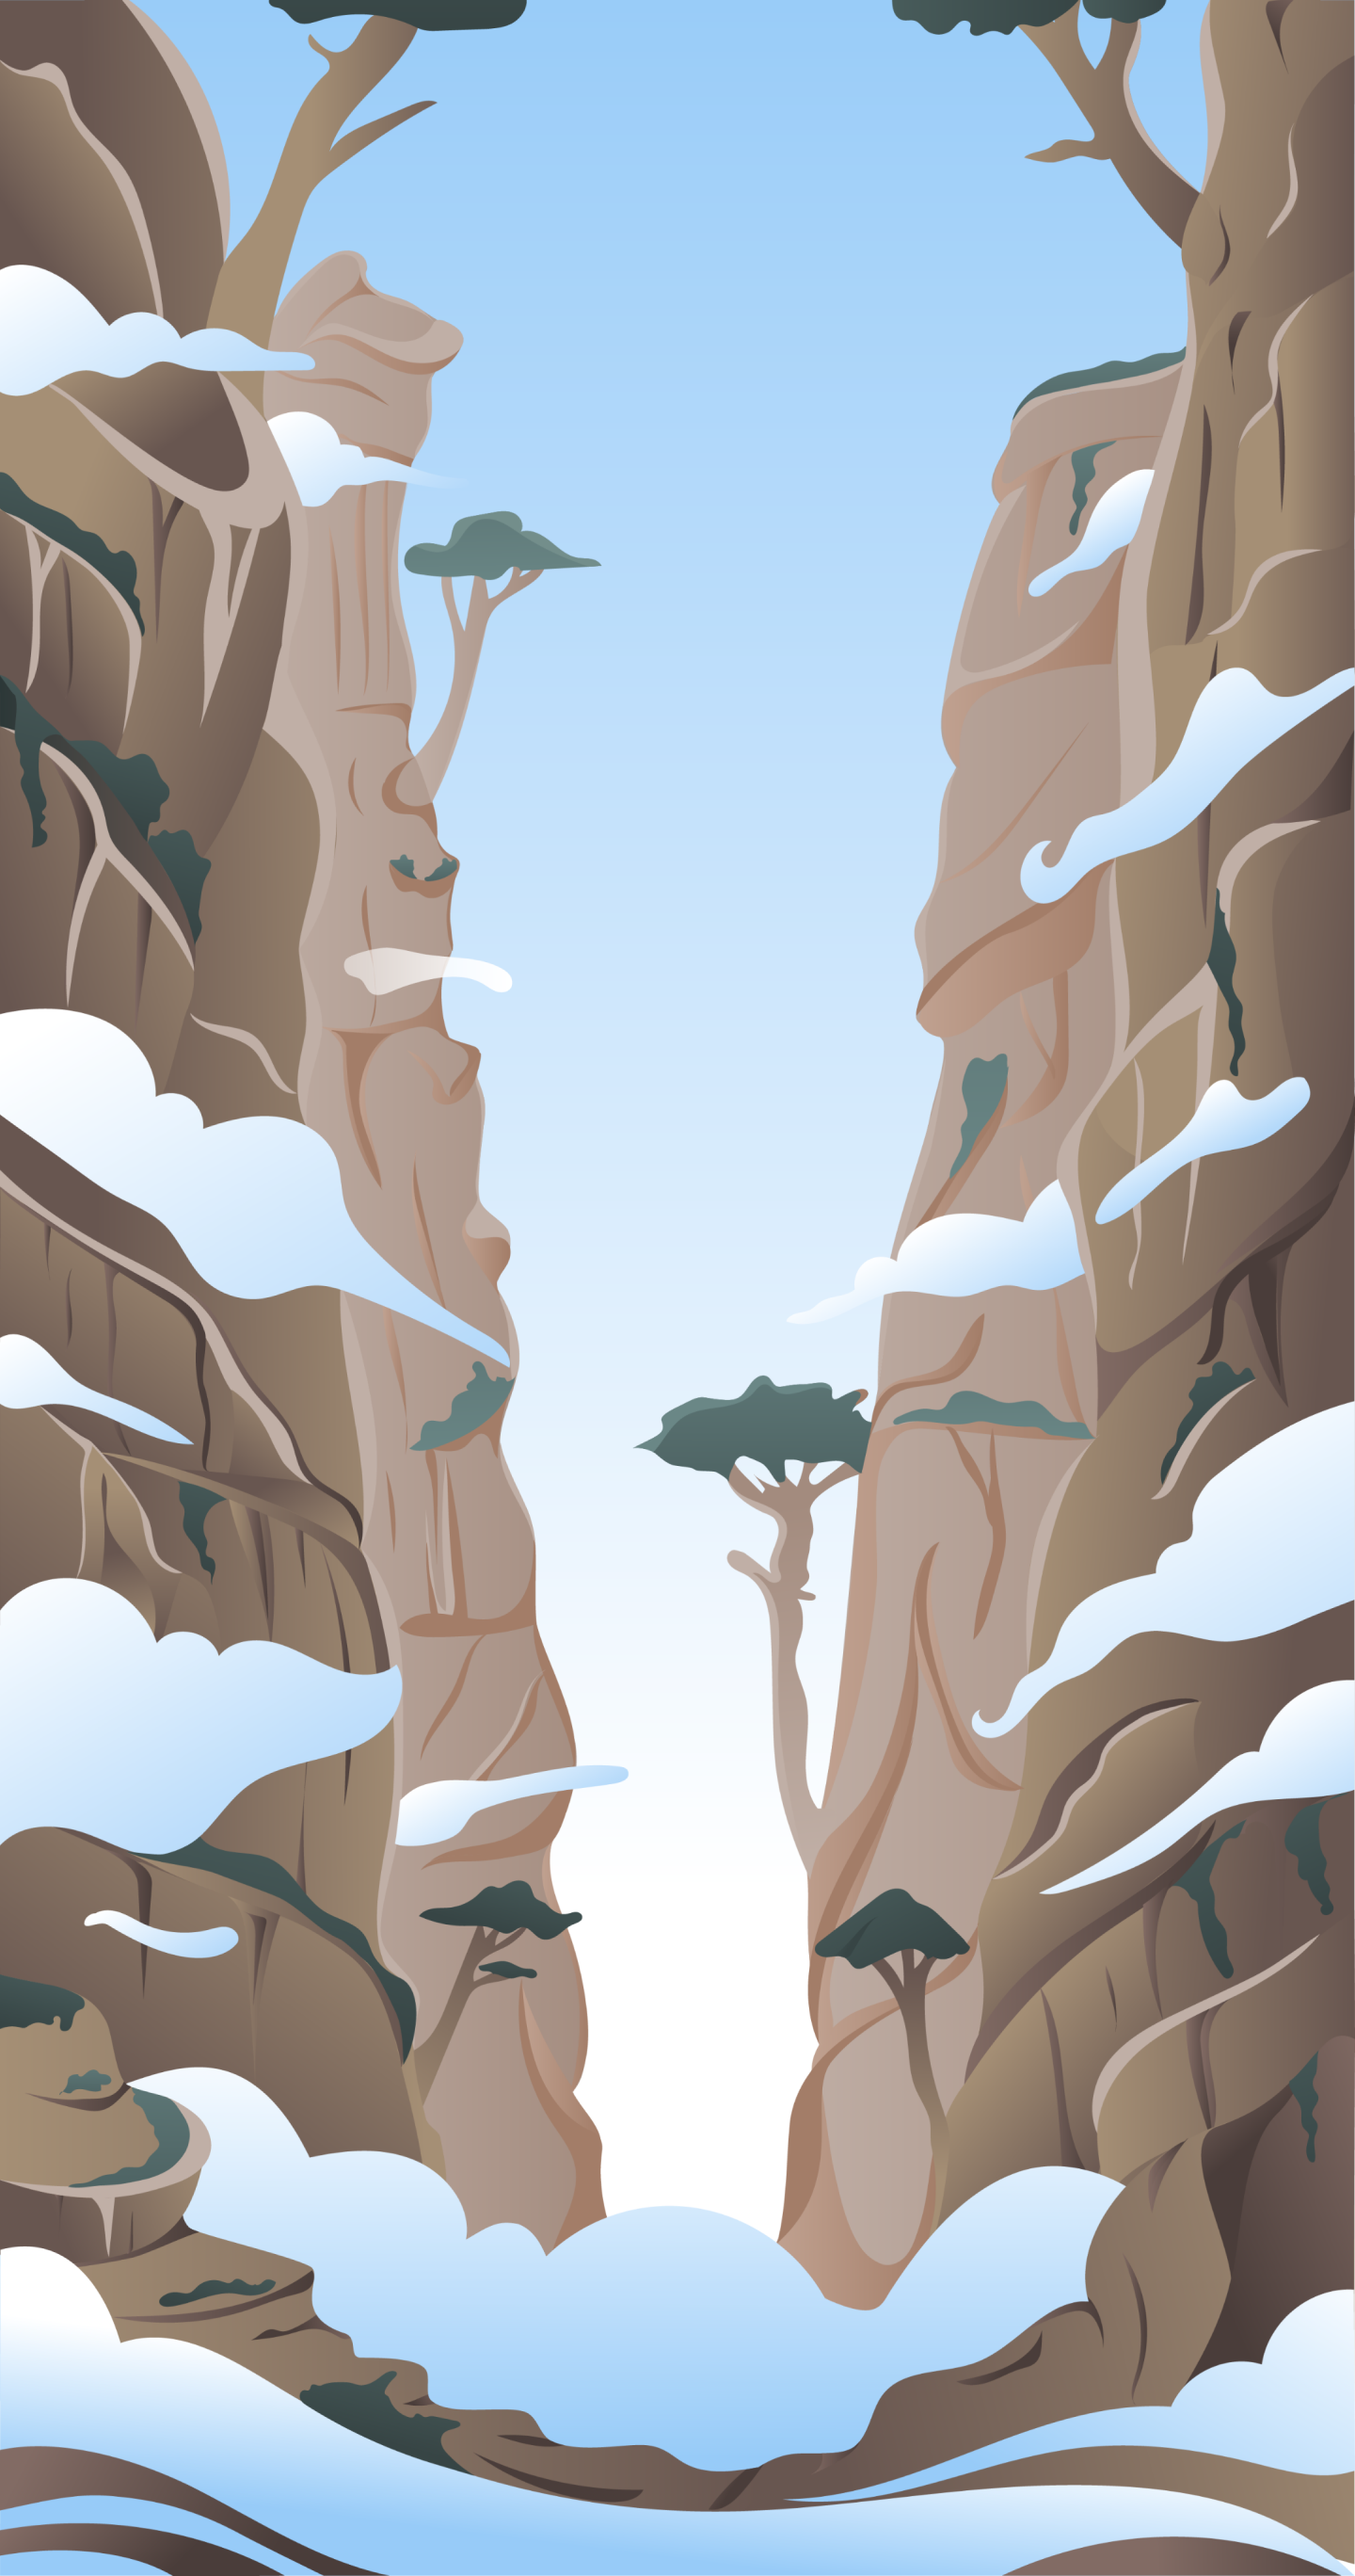
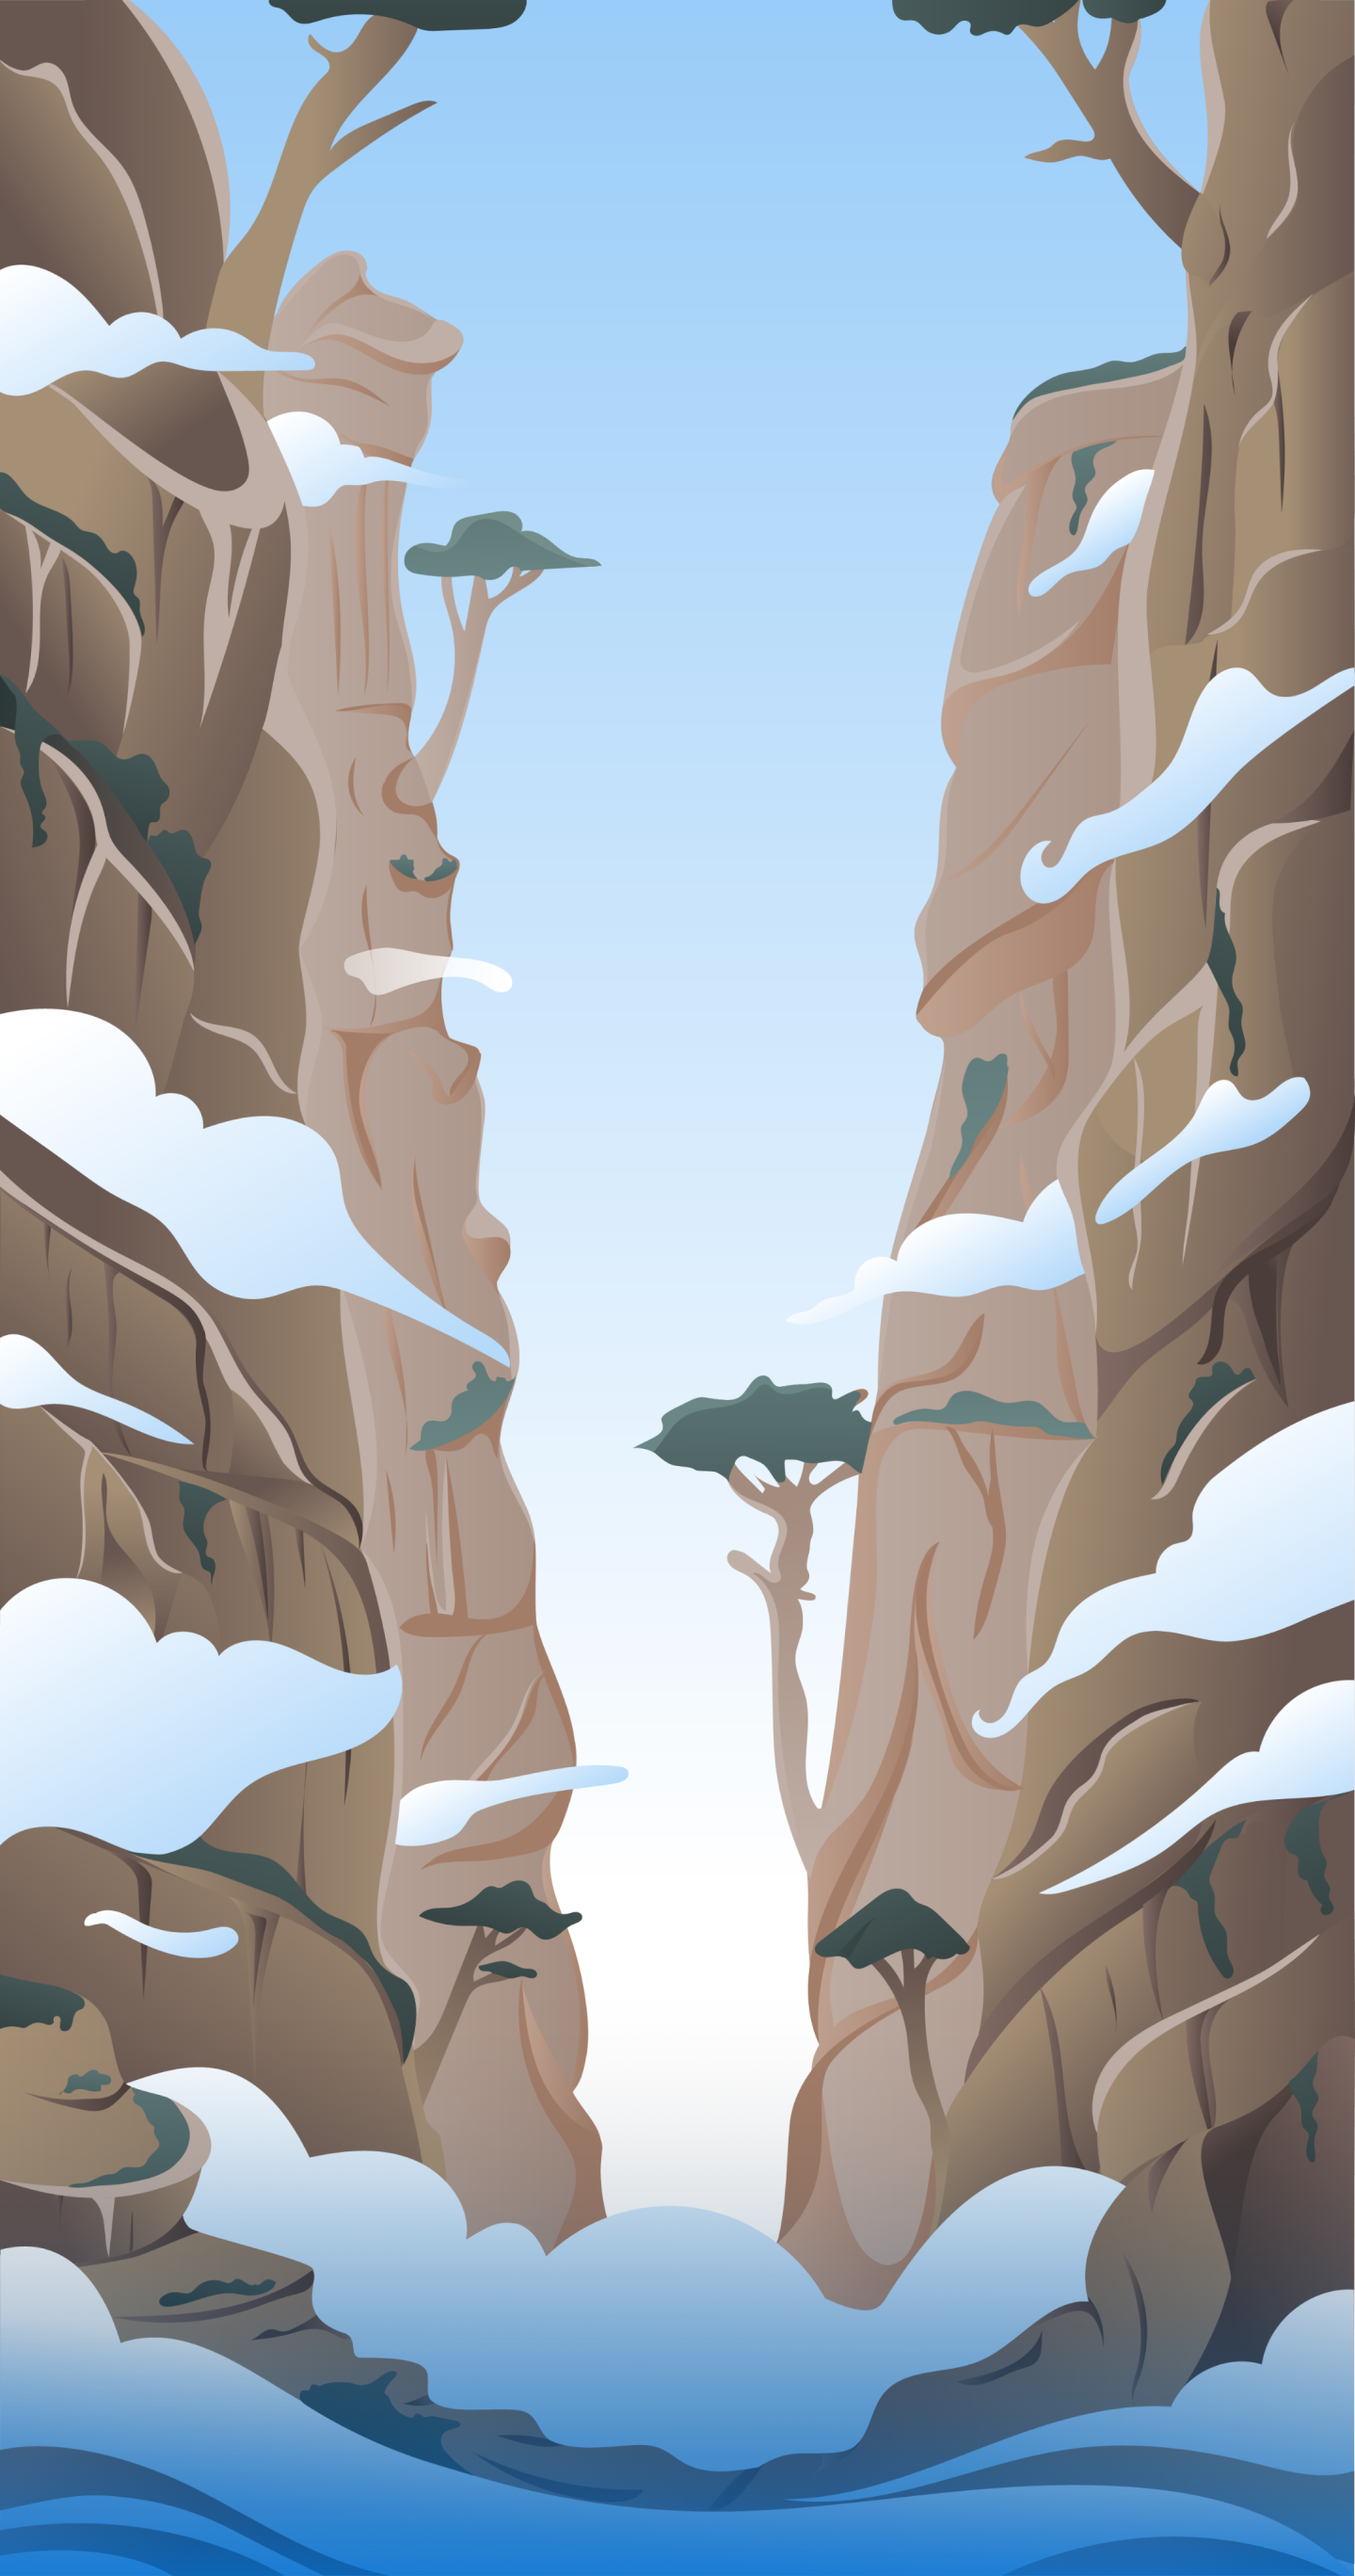
done responsive

Changed region(s): [[0.0, 0.8388, 1.0, 1.0]]

diff --git a/index.html b/index.html
@@ -653,7 +653,7 @@
           </div>
         </div>
       </div>
-      <div class="container d-flex flex-column align-items-center">
+      <div class="container faq-container d-flex flex-column align-items-center">
         <h2 class="text-center">FAQ’s</h2>
         <div class="accordion accordion-flush" id="accordionFlushExample">
           <div class="accordion-item mb-4">
@@ -698,8 +698,8 @@
           </div>
         </div>
       </div>
-      <div class="ornamen-about">
-        <div class="overlay-bot position-absolute bottom-auto"></div>
+      <!-- <div class="overlay-bot position-absolute bottom-auto"></div> -->
+      <!-- <div class="ornamen-about"> -->
       </div>
     </section>
     <section class="footer">
@@ -707,7 +707,7 @@
         <div class="container">
           <div class="row mb-5">
             <div class="col-lg-5"></div>
-            <div class="col-lg-7 d-flex flex-column align-items-center ">
+            <div class="col-lg-7 d-flex flex-column align-items-center align-items-lg-start">
               <div class="footer-logo text-center">
                 <img src="assets/images/img-logo.png" alt="" class="logo-brand">
               </div>
@@ -716,7 +716,7 @@
           </div>
           <div class="row">
             <div class="col-lg-5"></div>
-            <div class="col-lg-2 col-5 offset-1 d-flex flex-column">
+            <div class="col-lg-2 col-5 offset-1 offset-lg-0 d-flex flex-column">
               <h6 class="mb-3">Product</h6>
               <a href="#" class="footer-link mb-2">Home</a>
               <a href="#" class="footer-link mb-2">About</a>
@@ -729,7 +729,7 @@
               <a href="#" class="footer-link mb-2">Tokenomics</a>
               <a href="#" class="footer-link mb-2">Token Use Case</a>
             </div>
-            <div class="col-lg-3 col-5 offset-1 d-flex flex-column mt-4">
+            <div class="col-lg-3 col-5 offset-1 offset-lg-0 d-flex flex-column mt-4 mt-lg-0">
               <h6 class="mb-3">Resources</h6>
               <a href="#" class="footer-link mb-2">Try App</a>
               <a href="#" class="footer-link mb-2">White Paper</a>
@@ -737,7 +737,7 @@
           </div>
           <div class="row mt-5">
             <div class="col-lg-5"></div>
-            <div class="col-lg-7 col-5 offset-1 d-flex">
+            <div class="col-lg-7 col-5 offset-1 offset-lg-0 d-flex">
               <div class="icon-wrap">
                 <img src="assets/images/icon-1.png" alt="">
               </div>

diff --git a/assets/css/style.css b/assets/css/style.css
@@ -320,12 +320,6 @@ section.about-us{
     background-size: cover;
     padding: 51px 0px 182px;
 }
-section.about-us .row{
-    overflow-x: auto;
-    /* white-space: nowrap; */
-    display: inline-block;
-    float: none;
-}
 .our-partners{
     width: 100% !important;
     max-width: 1440px !important;
@@ -467,8 +461,7 @@ section.footer{
     box-shadow: 0px 37px 79px rgba(0, 0, 0, 0.15);
 }
 section.footer .container{
-    padding-top: 121px;
-    padding-bottom: 65px;
+    padding: 121px 0px 65px;
 }
 .footer-orn{
     background: url('../images/bg-footer.png');
@@ -598,6 +591,37 @@ section.footer p{
     }
     .our-partners{
         padding: 50px 0 ;
+    }
+    section.about-us h2.text-center{
+        color: #12417F;
+        margin: 240px 0 69px;
+    }
+
+    .accordion-body{
+        font-size: 18px;
+        padding: 34px;
+        max-width: 424px;
+        margin-left: 42px;
+    }
+    .accordion-item {
+        border-radius: 20px !important;
+        width: 816px;
+        background-color: rgba(255, 255, 255, 0.9);
+    }
+    .accordion-button{
+        font-size: 18px;
+        padding: 34px;
+    }
+    .faq-container{
+        z-index: 1;
+    }
+    .overlay-bot{
+        margin-top: -305px;
+        width: 100%;
+        height: 670px;
+        background: linear-gradient(180deg, #0283F7 0%, rgba(0, 0, 0, 0) 96.13%);
+        transform: rotate(-180deg);
+        z-index: 0;
     }
 }
 
